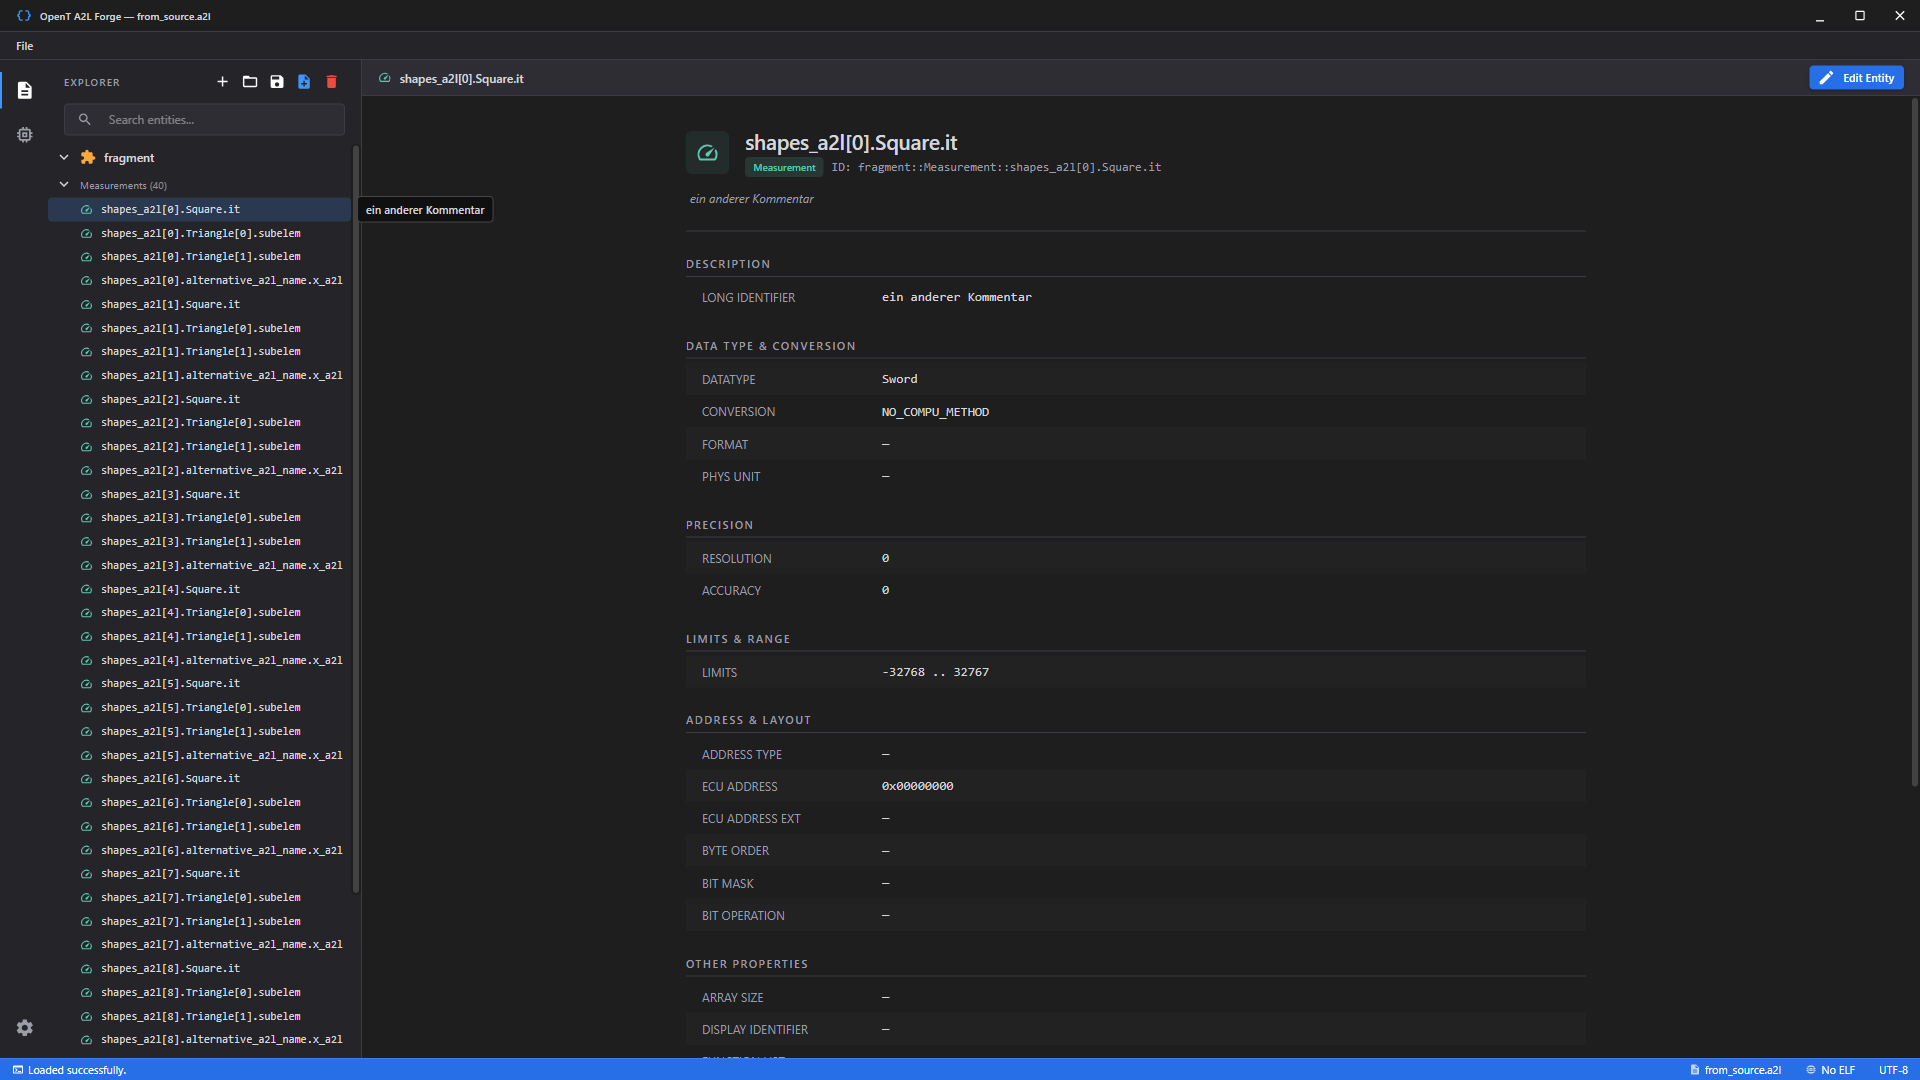
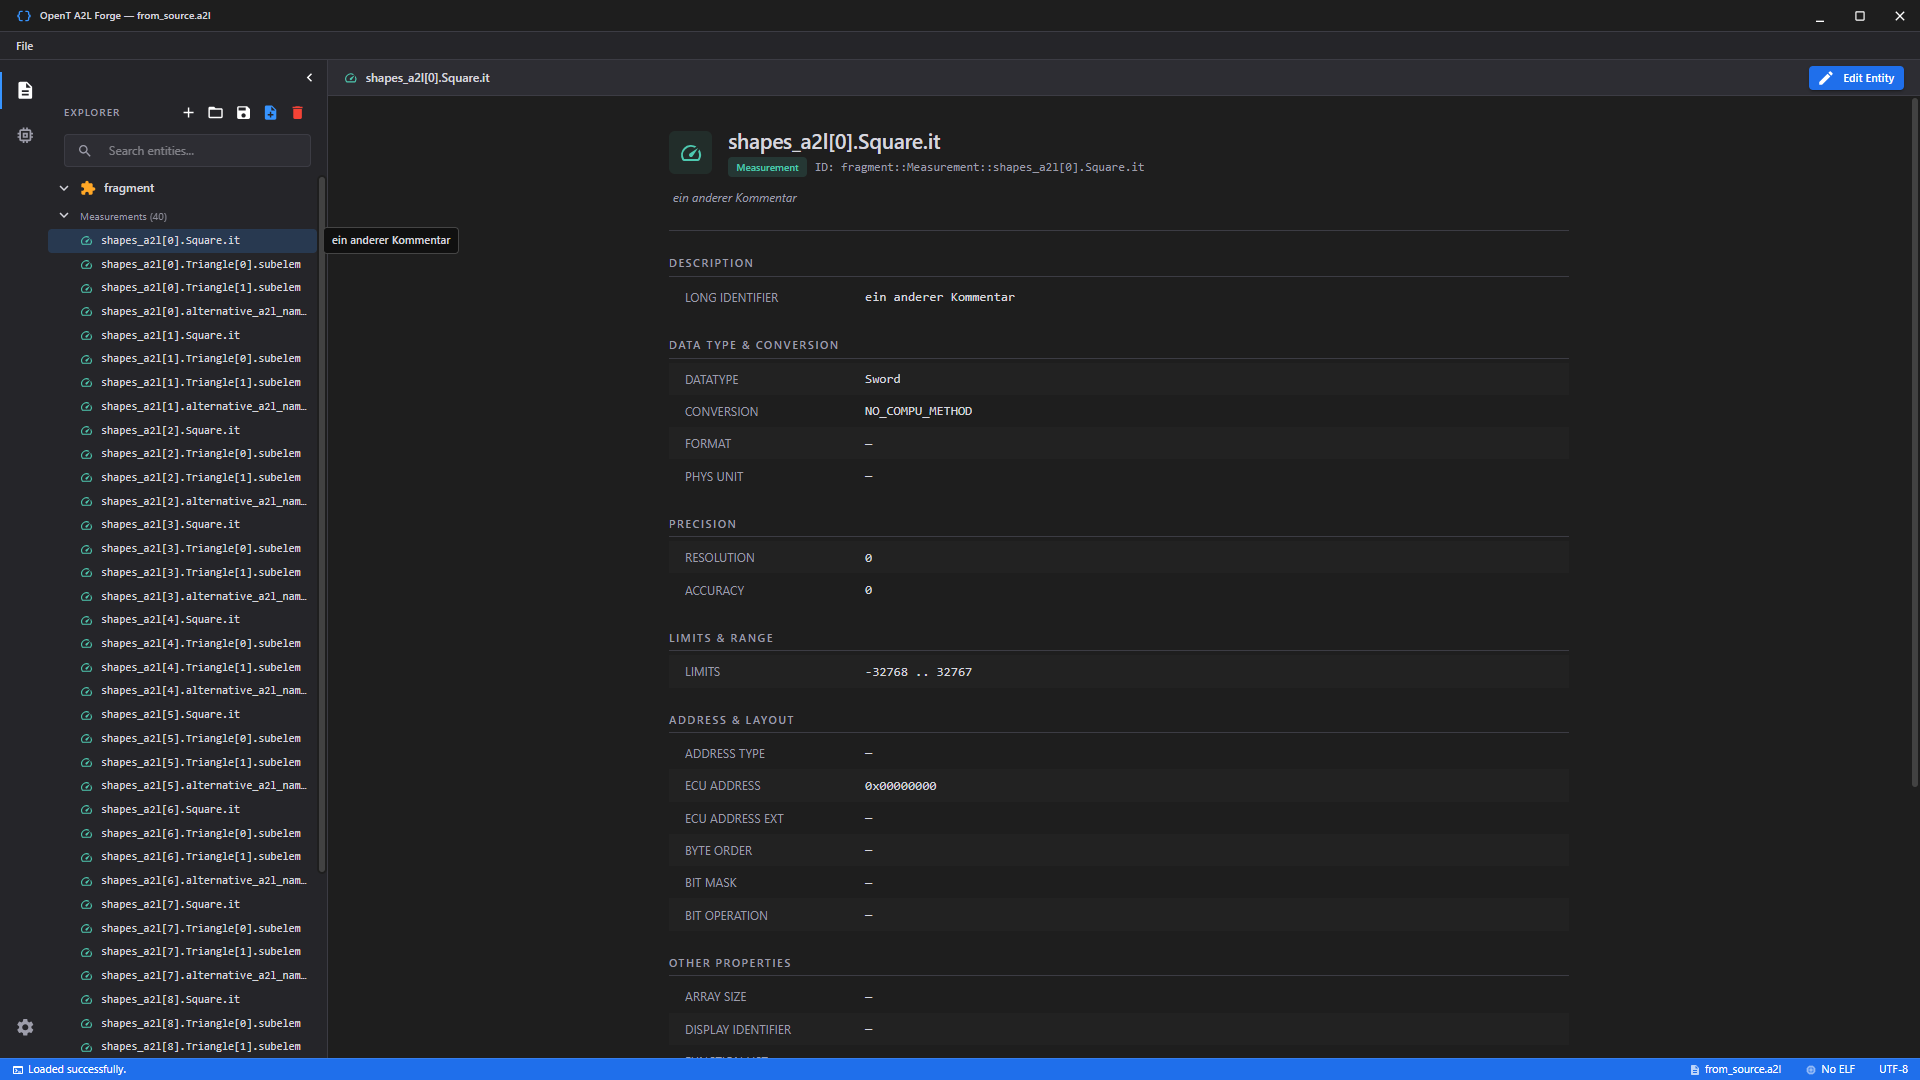
feat(v6.0.3): close component polish — sidebar toggle button, ELF table row cap, screenshots re-captured

diff --git a/src/App.tsx b/src/App.tsx
@@ -6,6 +6,7 @@ import { open, save } from "@tauri-apps/plugin-dialog";
 import {
   Box,
   CssBaseline,
+  IconButton,
   LinearProgress,
   ThemeProvider,
 } from "@mui/material";
@@ -44,6 +45,7 @@ import { ConflictDialog } from "./components/dialogs/ConflictDialog";
 import { PreviewDialog } from "./components/dialogs/PreviewDialog";
 import { UnsavedDialog } from "./components/dialogs/UnsavedDialog";
 import { CreateEntityDialog } from "./components/dialogs/CreateEntityDialog";
+import { KeyboardArrowLeft as KeyboardArrowLeftIcon } from "@mui/icons-material";
 
 const RECENT_A2L_KEY = "opent-a2l-recents";
 const RECENT_ELF_KEY = "opent-elf-recents";
@@ -1032,8 +1034,8 @@ function App() {
           <ActivityBar
             activeView={activeView}
             onViewChange={(v) => {
-              if (v === activeView) setSidebarOpen(o => !o);
-              else { setActiveView(v); setSidebarOpen(true); }
+              setActiveView(v);
+              setSidebarOpen(true);
             }}
           />
 
@@ -1049,6 +1051,17 @@ function App() {
             whiteSpace: "nowrap",
             overflow: "hidden",
           }}>
+            <Box sx={{ display: "flex", justifyContent: "flex-end", px: 0.5, pt: 0.5 }}>
+              <IconButton
+                size="small"
+                data-testid="btn-toggle-sidebar"
+                aria-label="Toggle sidebar"
+                title="Toggle sidebar (Ctrl+B)"
+                onClick={() => setSidebarOpen(false)}
+              >
+                <KeyboardArrowLeftIcon fontSize="small" />
+              </IconButton>
+            </Box>
             {activeView === "a2l" && (
               <ExplorerPanel
                 metadata={metadata}

diff --git a/tests/e2e/fixtures.ts b/tests/e2e/fixtures.ts
@@ -108,8 +108,13 @@ export async function saveCliProject(page: Page, filePath: string): Promise<void
 
 /** Create a new empty A2L via the UI button (no dialog needed) */
 export async function createNewA2l(page: Page): Promise<void> {
-  await page.getByTestId("sidebar-explorer").click();
-  await page.getByTestId("btn-new-a2l").click();
+  // Clicking the already-active activity-bar view toggles the sidebar,
+  // so only switch to the explorer if it is not visible yet.
+  const newBtn = page.getByTestId("btn-new-a2l");
+  if (!(await newBtn.isVisible().catch(() => false))) {
+    await page.getByTestId("sidebar-explorer").click();
+  }
+  await newBtn.click();
   await page.getByTestId("entity-tree").waitFor({ timeout: 10000 });
 }
 

diff --git a/PLAN.md b/PLAN.md
@@ -581,18 +581,18 @@ Reference tokens (Variant A):
 - [x] Run axe/lighthouse-style audit on main views; document results
 - [x] SRS doc for accessibility requirements (feeds H2 roadmap item)
 
-### v6.0.3 — Component Polish & Interaction Consistency (current) (ACTIVE)
+### v6.0.3 — Component Polish & Interaction Consistency (COMPLETE)
 
 **Goal:** Refine unconventional UX and heavy-list handling for a more premium feel (within Variant A's subtle aesthetic — no layout re-architecture).
 
-- [ ] Move entity-type selector out of DialogTitle into dialog body (CreateEntityDialog) — segmented picker per prototype section 4
-- [ ] Shared styled SectionHeader/form-skeleton component adopted by all editors + create dialog
-- [ ] Virtualize ELF symbol table rows (@mui/x-virtualization or react-window) behind existing filters
-- [ ] Sidebar collapse/toggle + minimum-window-width handling
-- [ ] Micro-interactions (Variant A scale): hover brightness on primary buttons, smooth tree chevrons, transition tokens in theme
-- [ ] Re-capture all README/landing screenshots after restyle
+- [x] Move entity-type selector out of DialogTitle into dialog body (CreateEntityDialog) — segmented picker per prototype section 4
+- [x] Shared styled SectionHeader/form-skeleton component adopted by all editors + create dialog
+- [x] ELF symbol table render cap behind existing filters: 500-row batches with Load 500 more / Load all (same pattern as explorer tree; avoids new virtualization dep)
+- [x] Sidebar collapse/toggle + minimum-window-width handling
+- [x] Micro-interactions (Variant A scale): hover brightness on primary buttons, transition tokens in theme, segmented type-picker transitions
+- [x] Re-capture all README/landing screenshots after restyle
 
-### v6.0.4 — Landing Page & README Fixes
+### v6.0.4 — Landing Page & README Fixes (current) (ACTIVE)
 
 **Goal:** Robust, self-contained web presence.
 
